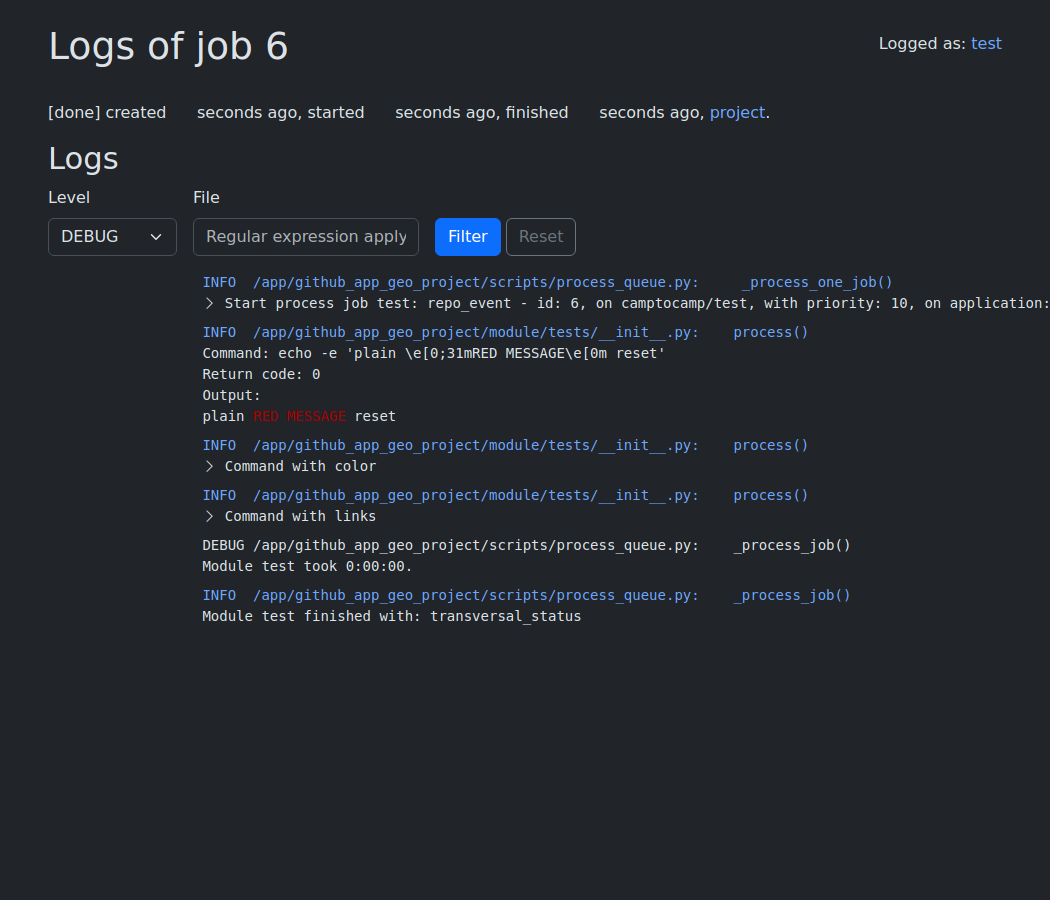
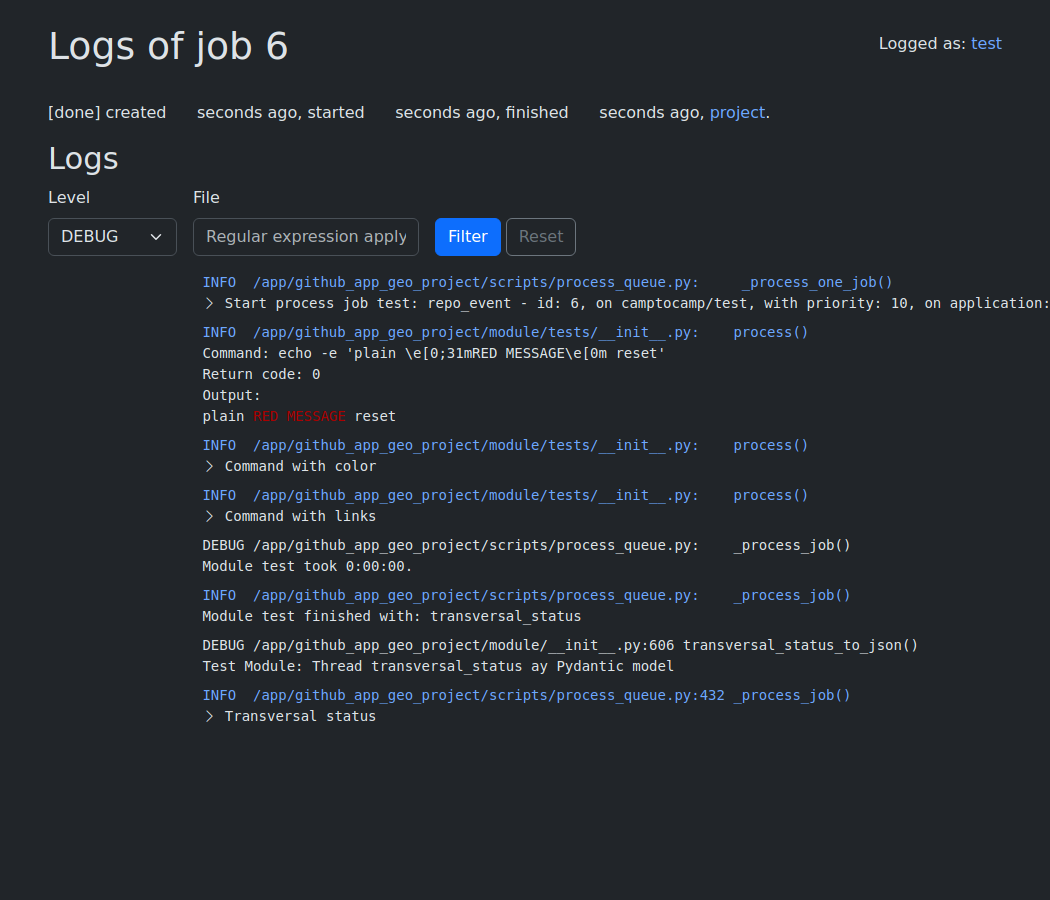
Add collapsed data for dashboard, transversal status and output in job finished logs

Changed region(s): [[0.1829, 0.7156, 0.7924, 0.8089], [0.8229, 0.7156, 0.8533, 0.7467]]

diff --git a/github_app_geo_project/scripts/process_queue.py b/github_app_geo_project/scripts/process_queue.py
@@ -7,6 +7,7 @@ import contextlib
 import contextvars
 import datetime
 import functools
+import html
 import inspect
 import io
 import logging
@@ -416,6 +417,34 @@ async def _process_job(
                                 "Actions: %s",
                                 ", ".join(
                                     [a.title or "Untitled" for a in result.actions],
+                                ),
+                            )
+
+                        if result.dashboard is not None:
+                            _LOGGER.info(
+                                module_utils.HtmlMessage(
+                                    f"<pre>{html.escape(str(result.dashboard))}</pre>",
+                                    title="Dashboard",
+                                ),
+                            )
+
+                        if transversal_status is not None:
+                            _LOGGER.info(
+                                module_utils.HtmlMessage(
+                                    utils.format_json(
+                                        current_module.transversal_status_to_json(
+                                            transversal_status,
+                                        ),
+                                    ),
+                                    title="Transversal status",
+                                ),
+                            )
+
+                        if result.output is not None:
+                            _LOGGER.info(
+                                module_utils.HtmlMessage(
+                                    utils.format_json(result.output),
+                                    title="Output",
                                 ),
                             )
                     else:
